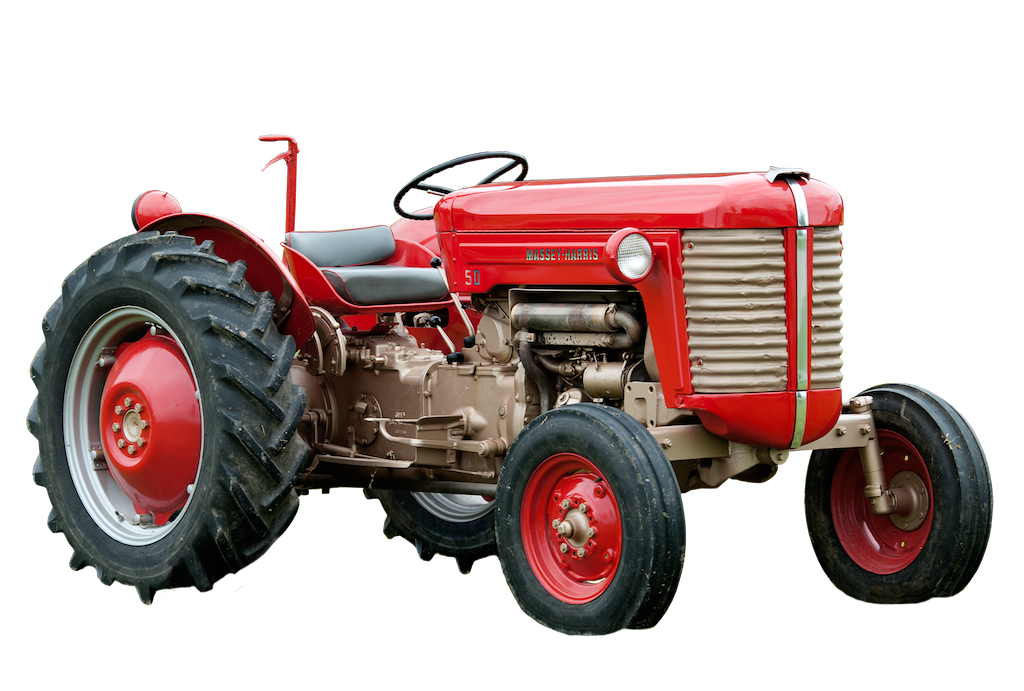
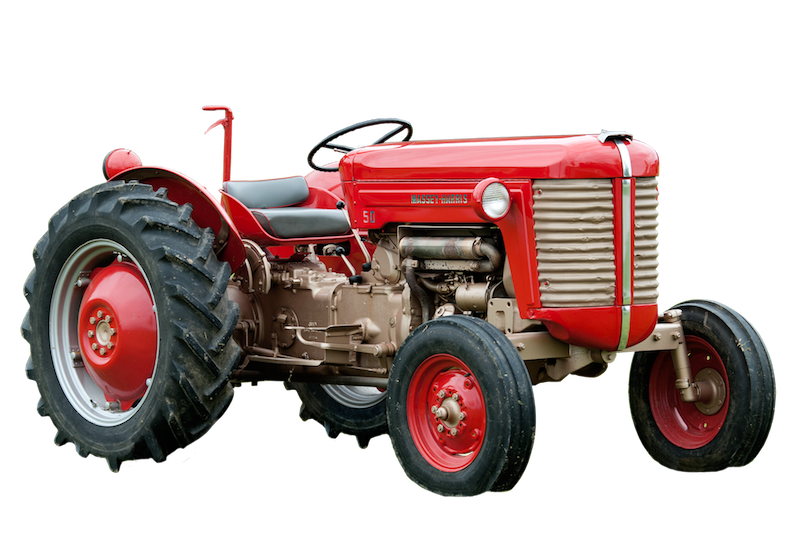
layout complete for heinz 70th

diff --git a/heinz-is-70/index.html b/heinz-is-70/index.html
@@ -1,6 +1,7 @@
 <html>
 <head>
     <script type="text/javascript" src="https://ajax.googleapis.com/ajax/libs/jquery/1.7.2/jquery.min.js"></script>
+    <link href='http://fonts.googleapis.com/css?family=Kranky' rel='stylesheet' type='text/css'>
     <script type="text/javascript">
     $(document).ready(function(){
         $(".pig").click(function(){
@@ -9,55 +10,67 @@
     });
     </script>
     <style type="text/css">
+        h1 { 
+            text-align: center;
+            font-size: 32pt;
+        }
+        p {
+            text-align: center;
+        }
         div {
             position: absolute;
         }
         body { 
+            font-family: 'Kranky', cursive;
             background-image: url('farm.jpg');
             background-size: cover; 
+            background-position: bottom;
             position: relative;
         } 
         #heinz {
-            background-image: url('heinz.png');
-            width: 208px;
-            height: 248px;
+            position: absolute;
+            bottom: 290px;
+            left: 220px;
         }
         #curt {
-            background-image: url('curt.png');
         }
         #tractor {
-            background-image: url('massey.png');
-            width: 1024px;
-            height: 691px;
+            position: absolute;
+            bottom: -65px;
+        }
+        #pigs {
+            bottom: 0px;
+            right: 0px;
         }
         .pig {
-            background-image: url('pig.png');
-            width: 294px;
-            height: 288px;
+            float: bottom;
+            bottom: 0px;
+            cursor: pointer;
         }
     </style>
 </head>
 <body>
-
-    <div id="heinz"></div>
-    <div id="tractor"></div>
+    <h1>Happy 70th Birthday Heinz</h1>
+    <p>Continue on to <a href="http://www.loversleapfarm.com/">your birthday present</a>!</p>
+    <img id="tractor" src="massey.png" />
+    <img id="heinz" src="heinz.png" />
     <div id="curt"></div>
 
-    <div class="pig" id="pig0">
+    <div id="pigs">
+        <img class="pig" id="pig5" src="pig.png" width="105px" />
+        <audio><source src="pig5.mp3" type="audio/mp3"  /></audio>
+        <img class="pig" id="pig4" src="pig.png" width="115px"  />
+        <audio><source src="pig3.mp3" type="audio/mp3"  /></audio>
+        <img class="pig" id="pig3" src="pig.png" width="120px" />
+        <audio><source src="pig3.mp3" type="audio/mp3"  /></audio>
+        <img class="pig" id="pig2" src="pig.png" width="135px"  />
+        <audio><source src="pig2.mp3" type="audio/mp3" /></audio>
+        <img class="pig" id="pig1" src="pig.png" width="140px" />
+        <audio><source src="pig1.mp3" type="audio/mp3"  /></audio>
+        <img class="pig" id="pig0" src="pig.png" width="150px" />
+        <audio><source src="pig0.mp3" type="audio/mp3" /></audio>
+        <img class="pig" id="curt" src="curt.png" width="180px" />
         <audio><source src="pig0.mp3" type="audio/mp3" /></audio>
     </div>
-    <div class="pig" id="pig1">
-        <audio><source src="pig1.mp3" type="audio/mp3" /></audio>
-    </div>
-    <div class="pig" id="pig2">
-        <audio><source src="pig2.mp3" type="audio/mp3" /></audio>
-    </div>
-    <div class="pig" id="pig3">
-        <audio><source src="pig3.mp3" type="audio/mp3" /></audio>
-    </div>
-    <div class="pig" id="pig4">
-        <audio><source src="pig4.mp3" type="audio/mp3" /></audio>
-    </div>
-
 </body>
 </html>
